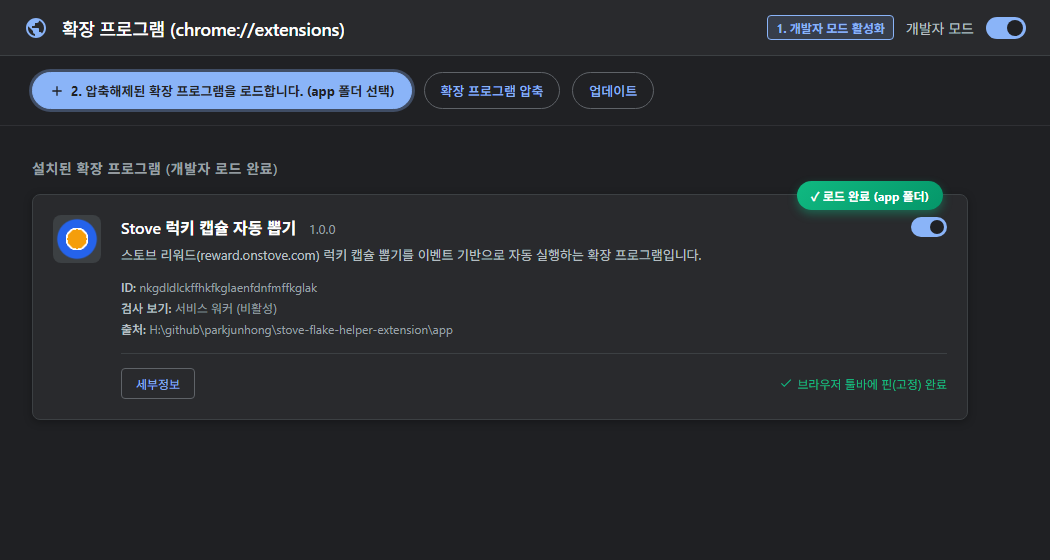
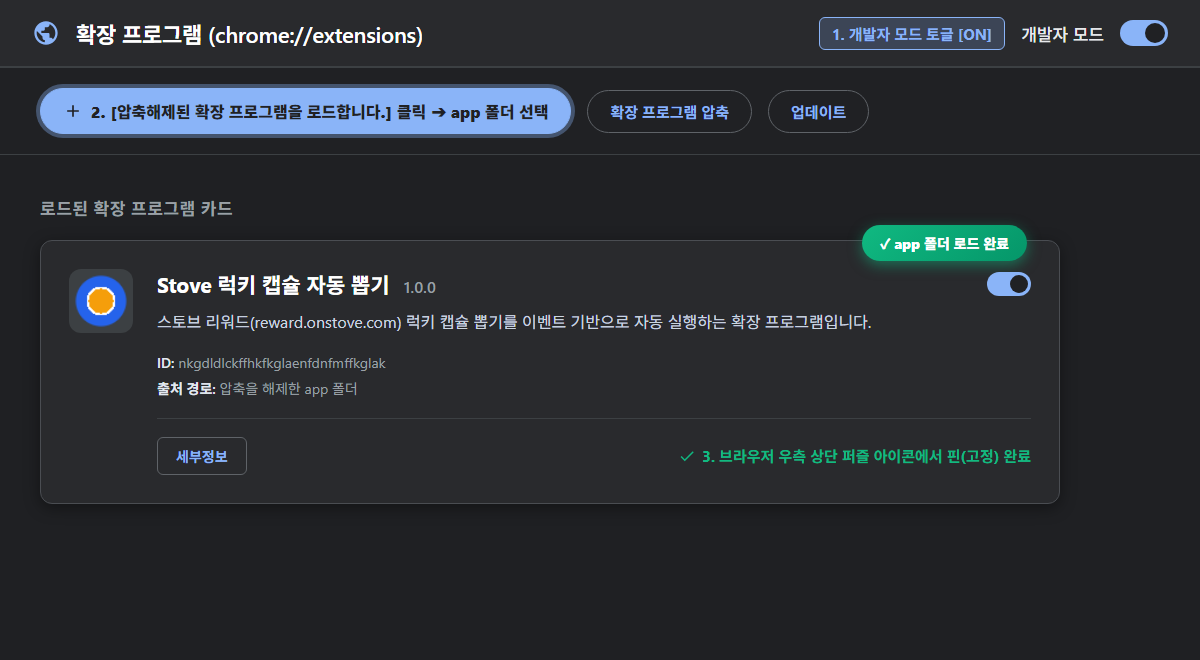
docs: 고해상도 확대 이미지 재생성 및 새 창 열기/인라인 확대 뷰어 UI 적용

diff --git a/README.md b/README.md
@@ -7,9 +7,9 @@
 ## 1. 설치 방법 (개발자 모드 로드)
 
 ### 1단계: 프로그램 다운로드
-1. 아래 링크에서 최신 버전의 확장 프로그램 압축 파일을 다운로드합니다:
-   - **[📦 최신 버전 다운로드 (Releases)](https://github.com/parkjunhong/stove-flake-helper-extension/releases/latest)**
-   - *(이전 버전을 다운로드하시려면 [전체 릴리스 목록](https://github.com/parkjunhong/stove-flake-helper-extension/releases)을 확인해 주세요.)*
+1. 아래 링크를 클릭하여 최신 버전의 확장 프로그램 압축 파일을 다운로드합니다:
+   - <a href="https://github.com/parkjunhong/stove-flake-helper-extension/releases/latest" target="_blank" rel="noopener noreferrer"><b>📦 최신 버전 다운로드 (Releases 바로가기) ↗</b></a>
+   - *(이전 버전을 다운로드하시려면 <a href="https://github.com/parkjunhong/stove-flake-helper-extension/releases" target="_blank" rel="noopener noreferrer">전체 릴리스 목록 ↗</a>을 확인해 주세요.)*
 2. 다운로드한 `stove-flake-helper-extension-v{version}.zip` 파일의 압축을 원하는 폴더에 해제합니다.
    - 압축을 해제하면 내부에 **`app`** 폴더가 생성됩니다.
    > **주의**: 설치 완료 후 압축을 해제한 `app` 폴더를 삭제하거나 다른 경로로 이동하면 확장 프로그램이 동작하지 않습니다. 안전한 경로에 보관해 주세요.
@@ -21,7 +21,17 @@
 4. 압축을 해제한 경로 내의 **`app`** 폴더를 선택합니다.
 5. 브라우저 우측 상단 퍼즐 모양 아이콘(확장 프로그램)을 클릭한 후, **Stove 럭키 캡슐 자동 뽑기** 옆의 핀(고정) 아이콘을 눌러 툴바에 고정합니다.
 
-![크롬 확장 프로그램 설치 및 개발자 모드 로드 화면](docs/images/01_install_extension.png)
+<p align="center">
+  <a href="docs/images/01_install_extension.png" target="_blank" rel="noopener noreferrer" title="새 창에서 원본 이미지 크게 보기">
+    <img src="docs/images/01_install_extension.png" alt="크롬 확장 프로그램 설치 및 개발자 모드 로드 화면" width="850">
+  </a>
+</p>
+<details>
+  <summary>🔍 <b>[클릭] 설치 안내 이미지 원본 크기로 펼쳐보기</b></summary>
+  <p align="center">
+    <img src="docs/images/01_install_extension.png" alt="크롬 확장 프로그램 설치 및 개발자 모드 로드 화면 (원본 확대)" width="100%">
+  </p>
+</details>
 
 ---
 
@@ -37,7 +47,17 @@
 2. 소모할 뽑기 금액(`100 플레이크` 또는 `1,000 플레이크`)을 선택합니다.
 3. `'한번 더'` 자동 실행 횟수를 입력하거나 확인한 후 **[자동 뽑기 시작 (Enter)]** 버튼을 클릭합니다.
 
-![확장 프로그램 팝업 UI 및 뽑기 설정 화면](docs/images/02_popup_settings.png)
+<p align="center">
+  <a href="docs/images/02_popup_settings.png" target="_blank" rel="noopener noreferrer" title="새 창에서 원본 이미지 크게 보기">
+    <img src="docs/images/02_popup_settings.png" alt="확장 프로그램 팝업 UI 및 뽑기 설정 화면" width="850">
+  </a>
+</p>
+<details>
+  <summary>🔍 <b>[클릭] 팝업 설정 이미지 원본 크기로 펼쳐보기</b></summary>
+  <p align="center">
+    <img src="docs/images/02_popup_settings.png" alt="확장 프로그램 팝업 UI 및 뽑기 설정 화면 (원본 확대)" width="100%">
+  </p>
+</details>
 
 ### 3단계: 자동 진행 및 안전 중단
 1. 자동 뽑기가 시작되면 웹페이지 우측 상단에 실시간 진행 뱃지(`[진행 중] 100 플레이크 뽑기 (N / M회)...`)가 표시되며, 실제 결과 모달 대화창이 뜰 때마다 **`[100 뽑기 한번 더! 👆]`** (또는 `1,000 뽑기 한번 더!`) 버튼을 이벤트 기반으로 안전하게 자동 클릭합니다.
@@ -47,7 +67,17 @@
    - 확장 프로그램 팝업의 **[중단 (Esc)]** 버튼 클릭
    - 위 3가지 중 어느 하나라도 수행하면 진행 중인 뽑기 루프 및 감시자가 즉시 안전하게 멈춥니다.
 
-![스토브 리워드 실제 당첨 화면 및 이벤트 페이지 전체 캡처](docs/images/03_running_badge.png)
+<p align="center">
+  <a href="docs/images/03_running_badge.png" target="_blank" rel="noopener noreferrer" title="새 창에서 원본 이미지 크게 보기">
+    <img src="docs/images/03_running_badge.png" alt="스토브 리워드 실제 당첨 화면 및 이벤트 페이지 전체 캡처" width="850">
+  </a>
+</p>
+<details>
+  <summary>🔍 <b>[클릭] 실제 사이트 당첨 화면 원본 크기로 펼쳐보기</b></summary>
+  <p align="center">
+    <img src="docs/images/03_running_badge.png" alt="스토브 리워드 실제 당첨 화면 및 이벤트 페이지 전체 캡처 (원본 확대)" width="100%">
+  </p>
+</details>
 
 ---
 
